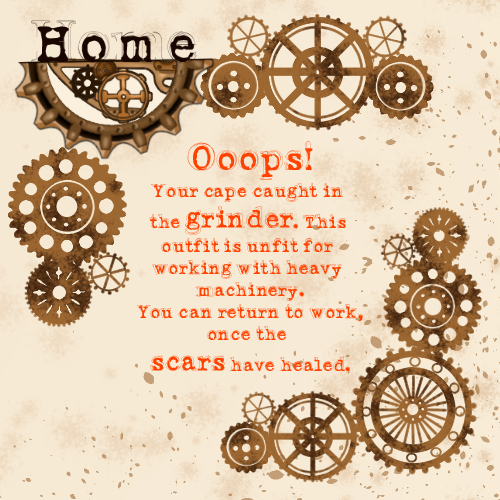
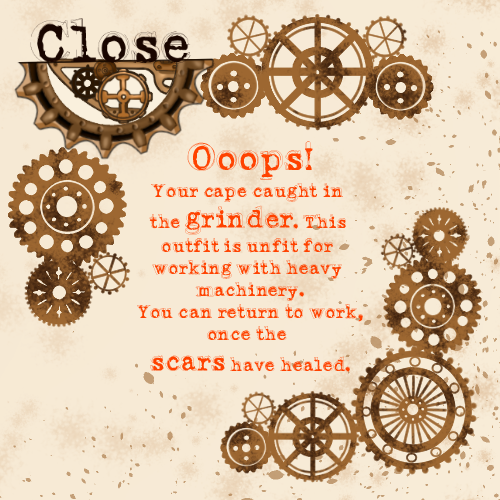
Changed popup image text

Changed region(s): [[0.06, 0.03, 0.39, 0.15]]

diff --git a/character.html b/character.html
@@ -21,7 +21,7 @@
 </head>
 <body class="main">
 	<div id="home">
-		<a href="about.html">
+		<a href="index.html">
 			<img class="img-responsive initial" src="img/Home_arrow.png" />
 			<img class="img-responsive hover" src="img/Home_arrow_hover_state.png" />
 		</a>

diff --git a/hoverboard.html b/hoverboard.html
@@ -23,7 +23,7 @@
 <body class="main">
 
 	<div id="home">
-		<a href="about.html">
+		<a href="index.html">
 			<img class="img-responsive initial" src="img/Home_arrow.png" />
 			<img class="img-responsive hover" src="img/Home_arrow_hover_state.png" />
 		</a>

diff --git a/thankyou.html b/thankyou.html
@@ -21,7 +21,7 @@
 </head>
 <body>
 	<div id="home">
-		<a href="about.html">
+		<a href="index.html">
 			<img class="img-responsive initial" src="img/Home_arrow.png" />
 			<img class="img-responsive hover" src="img/Home_arrow_hover_state.png" />
 		</a>

diff --git a/js/h.js b/js/h.js
@@ -61,6 +61,9 @@ $(document).ready(function(){
 	})
 
 	$("#submit").click(function(){
+		if($("#submit img.disabled").length !== 0)
+			return
+		
 		var getData = GetURLParameter("%23outfit")
 		var data = "?%23outfit=" + getData
 
